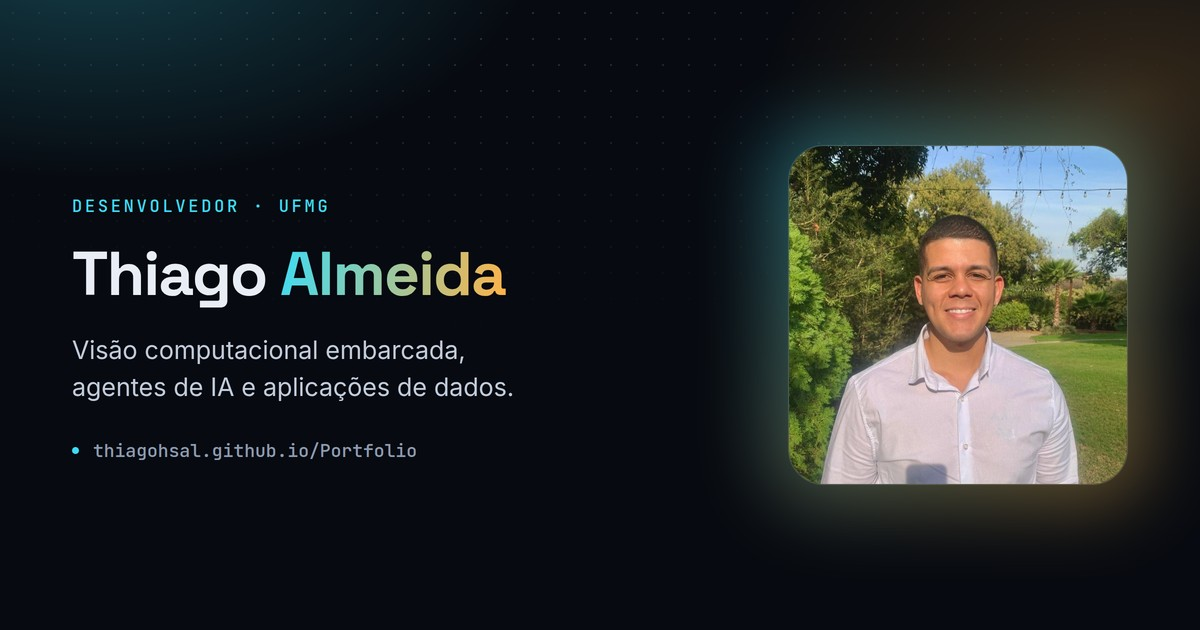
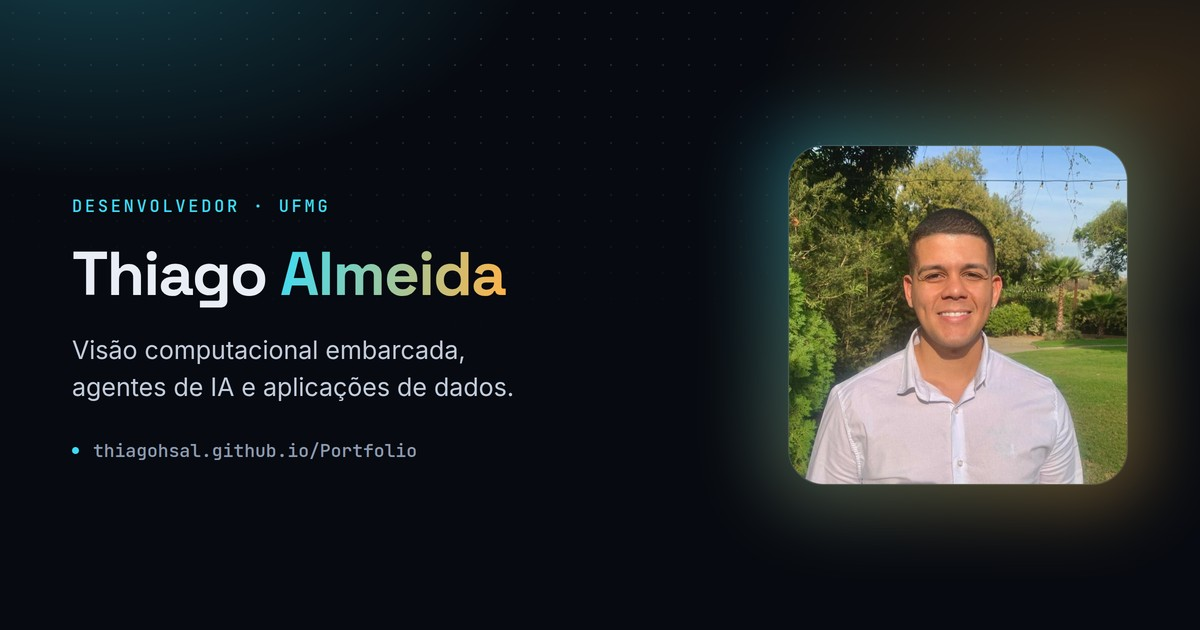
Reenquadra a foto de perfil e versiona o original
Recorte refeito a partir do arquivo original, em uma única geração de JPEG
(o anterior tinha sido recortado duas vezes, perdendo nitidez). O eixo do
quadro passa a ficar entre o eixo do rosto e o do tronco, que estavam a 30px
um do outro — só o rosto centrado deixava o corpo puxando para a direita.

800x800 a partir de (135, 170), olhos a 40% da altura. O enquadramento mais
fechado também descarta a sombra no canto inferior e o gramado vazio à
direita, que desequilibravam a composição.

A foto original passa a ser versionada em tools/foto-original.jpg, para que
reenquadrar no futuro não dependa de reenviá-la.

Changed region(s): [[0.6475, 0.2111, 0.9558, 0.7841]]

diff --git a/README.md b/README.md
@@ -73,6 +73,10 @@ As capas do EloRise, BookAdvisor e Datapólis são capturas de tela dos apps no 
 16:10. Quando a interface de algum deles mudar, vale recapturar para o portfólio não mostrar uma
 versão antiga.
 
+A foto de perfil (`public/img/thiago.jpg`) é um recorte quadrado de `tools/foto-original.jpg`, que
+fica versionada justamente para permitir reenquadrar depois sem precisar da foto de novo. O recorte
+atual é 800x800 a partir de (135, 170), com os olhos a 40% da altura.
+
 ### Tempo de serviço
 
 O tempo no Corpo de Bombeiros aparece no texto como o marcador `{anosBombeiro}` e é calculado a
